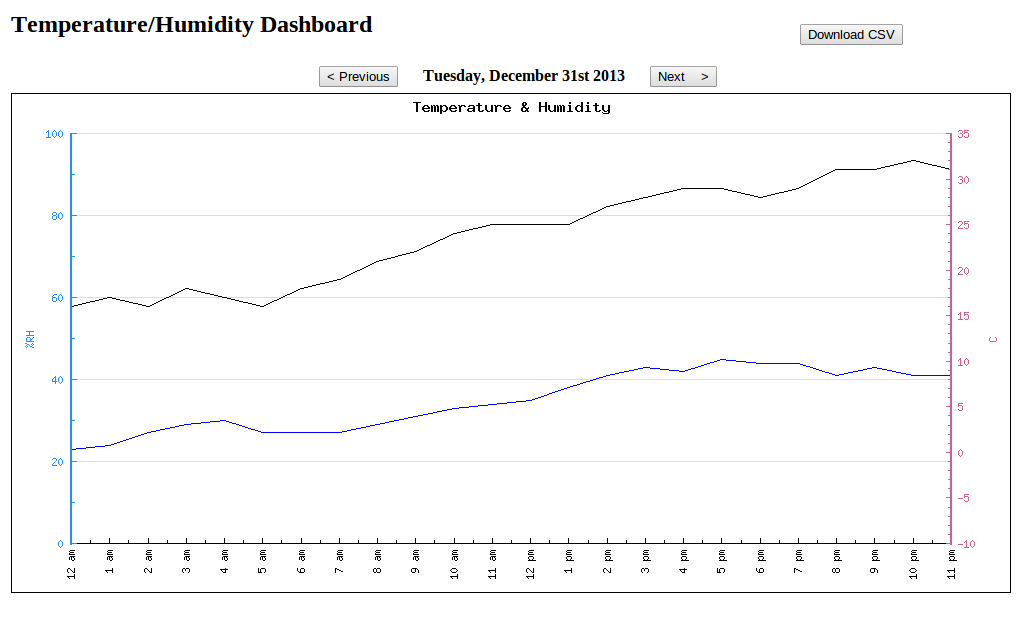
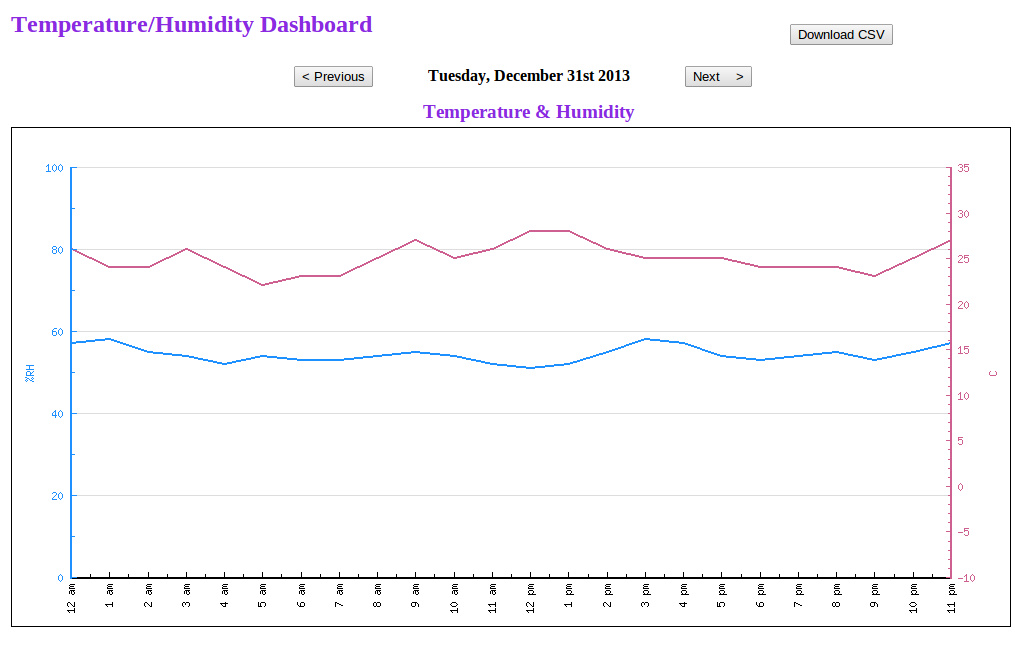
Make graph lines thicker

diff --git a/www/graphs/dht22.php b/www/graphs/dht22.php
@@ -14,8 +14,11 @@ while($row = mysqli_fetch_array($result)) {
 }
 $temperature_plot=new LinePlot($temperature,$ts);
 $temperature_plot->SetColor('hotpink3');
+$temperature_plot->SetWeight(2);
 $humidity_plot=new LinePlot($humidity,$ts);
 $humidity_plot->SetColor('dodgerblue');
+$humidity_plot->SetWeight(2);
+
 $graph = new Graph($width,$height);
 $graph->SetMargin(60,60,40,50);
 $graph->SetMarginColor('white');
@@ -23,14 +26,18 @@ $graph->SetScale('datlin',0,100);
 $graph->Add($humidity_plot);
 $graph->SetY2Scale('lin',-10,35);
 $graph->AddY2($temperature_plot);
+
 $graph->xaxis->SetLabelAngle(90);
 $graph->xaxis->scale->SetDateFormat('g a');
+$graph->xaxis->SetWeight(2);
+
 $graph->yaxis->SetColor('dodgerblue');
 $graph->yaxis->title->SetColor('dodgerblue');
 $graph->yaxis->SetWeight(2);
 $graph->yaxis->title->Set('%RH');
 $graph->yaxis->title->SetAngle(90);
 $graph->yaxis->title->SetMargin(10);
+
 $graph->y2axis->SetColor('hotpink3');
 $graph->y2axis->SetWeight(2);
 $graph->y2axis->title->SetColor('hotpink3'); 

diff --git a/ancillary/tests/generate_year_readings.php b/ancillary/tests/generate_year_readings.php
@@ -2,6 +2,7 @@
 require_once ("Carbon/Carbon.php");
 use Carbon\Carbon;
 $ip="foodaversions.com/dht22";
+//$ip="davidlub/dht22";
 
 $response = file_get_contents("http://$ip/initialize_core.php?core_id=68e07a&name=fake_data_2013&tz=America/Los_Angeles");
 echo $response."\n";

diff --git a/www/add_new_core.php b/www/add_new_core.php
@@ -1,6 +1,7 @@
 <html>
   <head>
     <title>Add New Core</title>
+    <link rel="stylesheet" type="text/css" href="html/stylesheet.css">    
   </head>
   
   <body>

diff --git a/www/index.php b/www/index.php
@@ -1,6 +1,7 @@
 <html>
   <head>
     <title>Welcome Page</title>
+    <link rel="stylesheet" type="text/css" href="html/stylesheet.css">    
   </head>
   
   <body>
